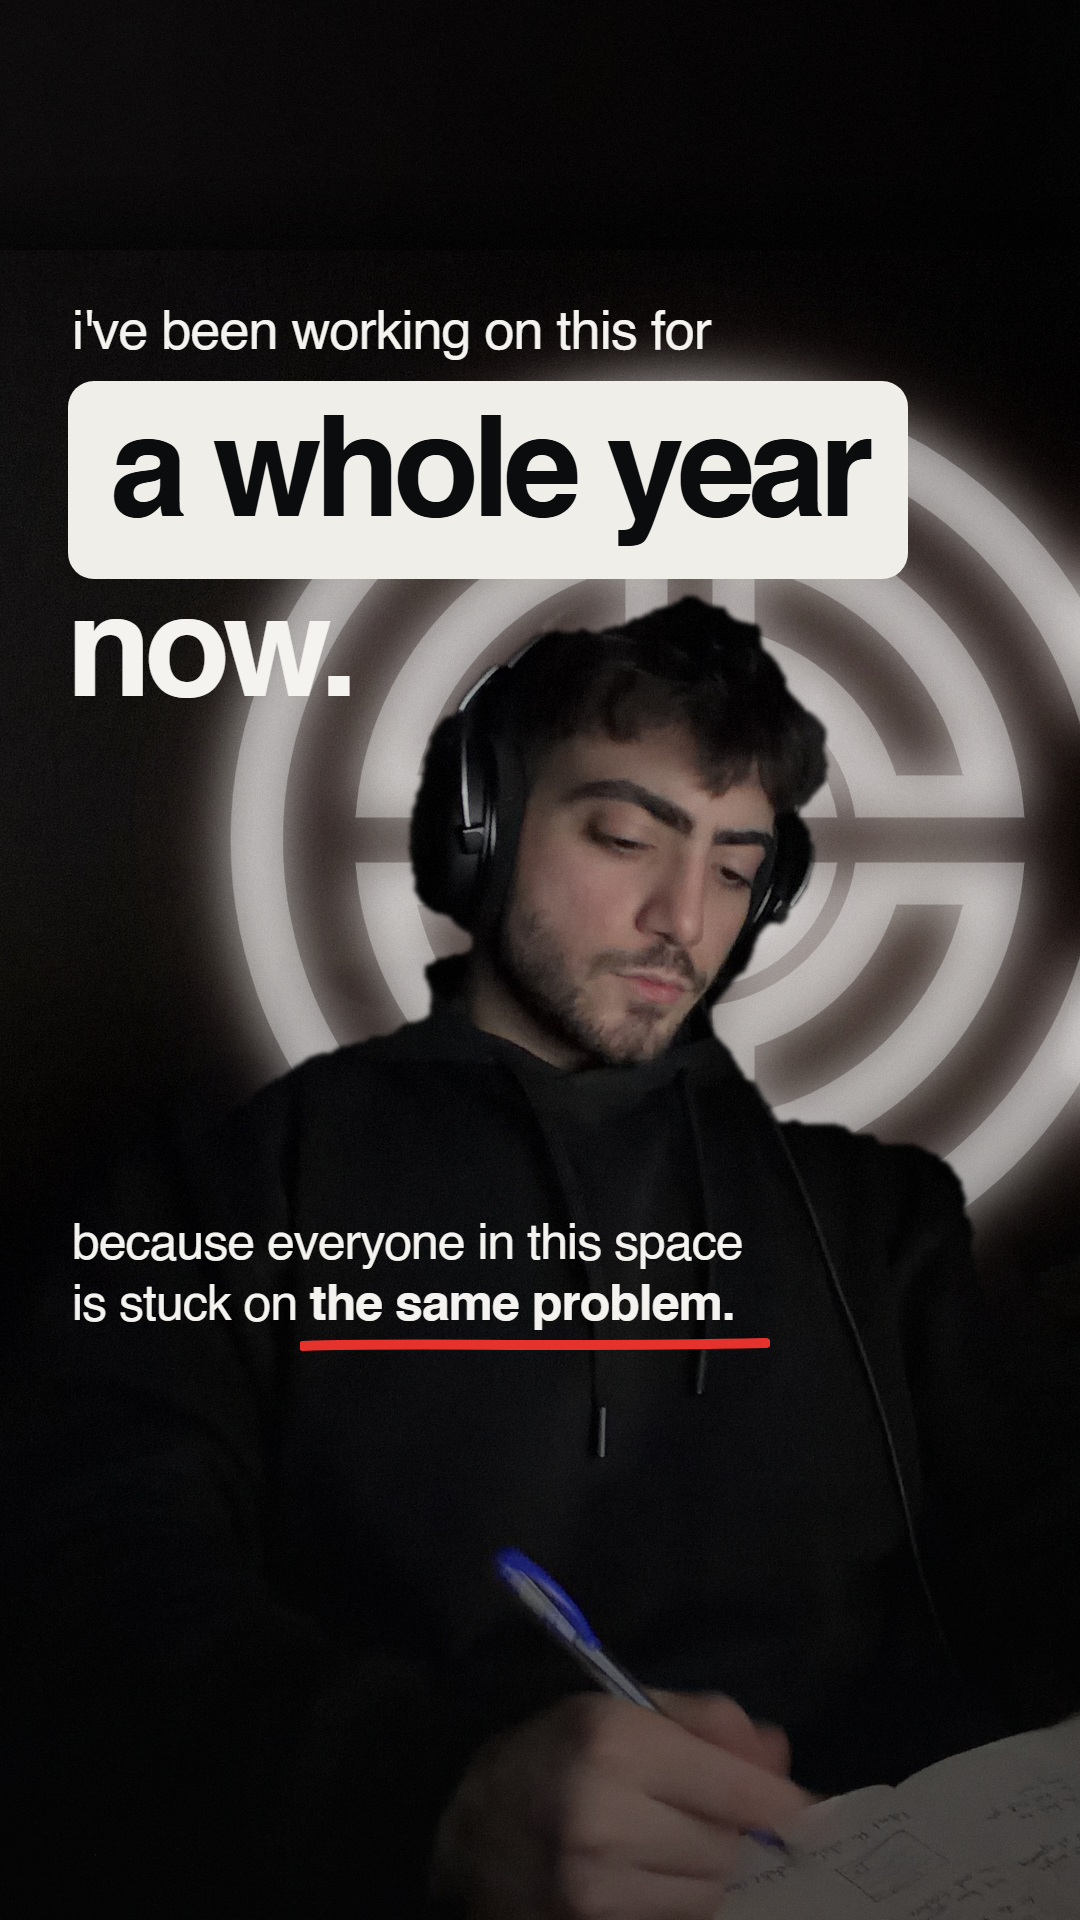
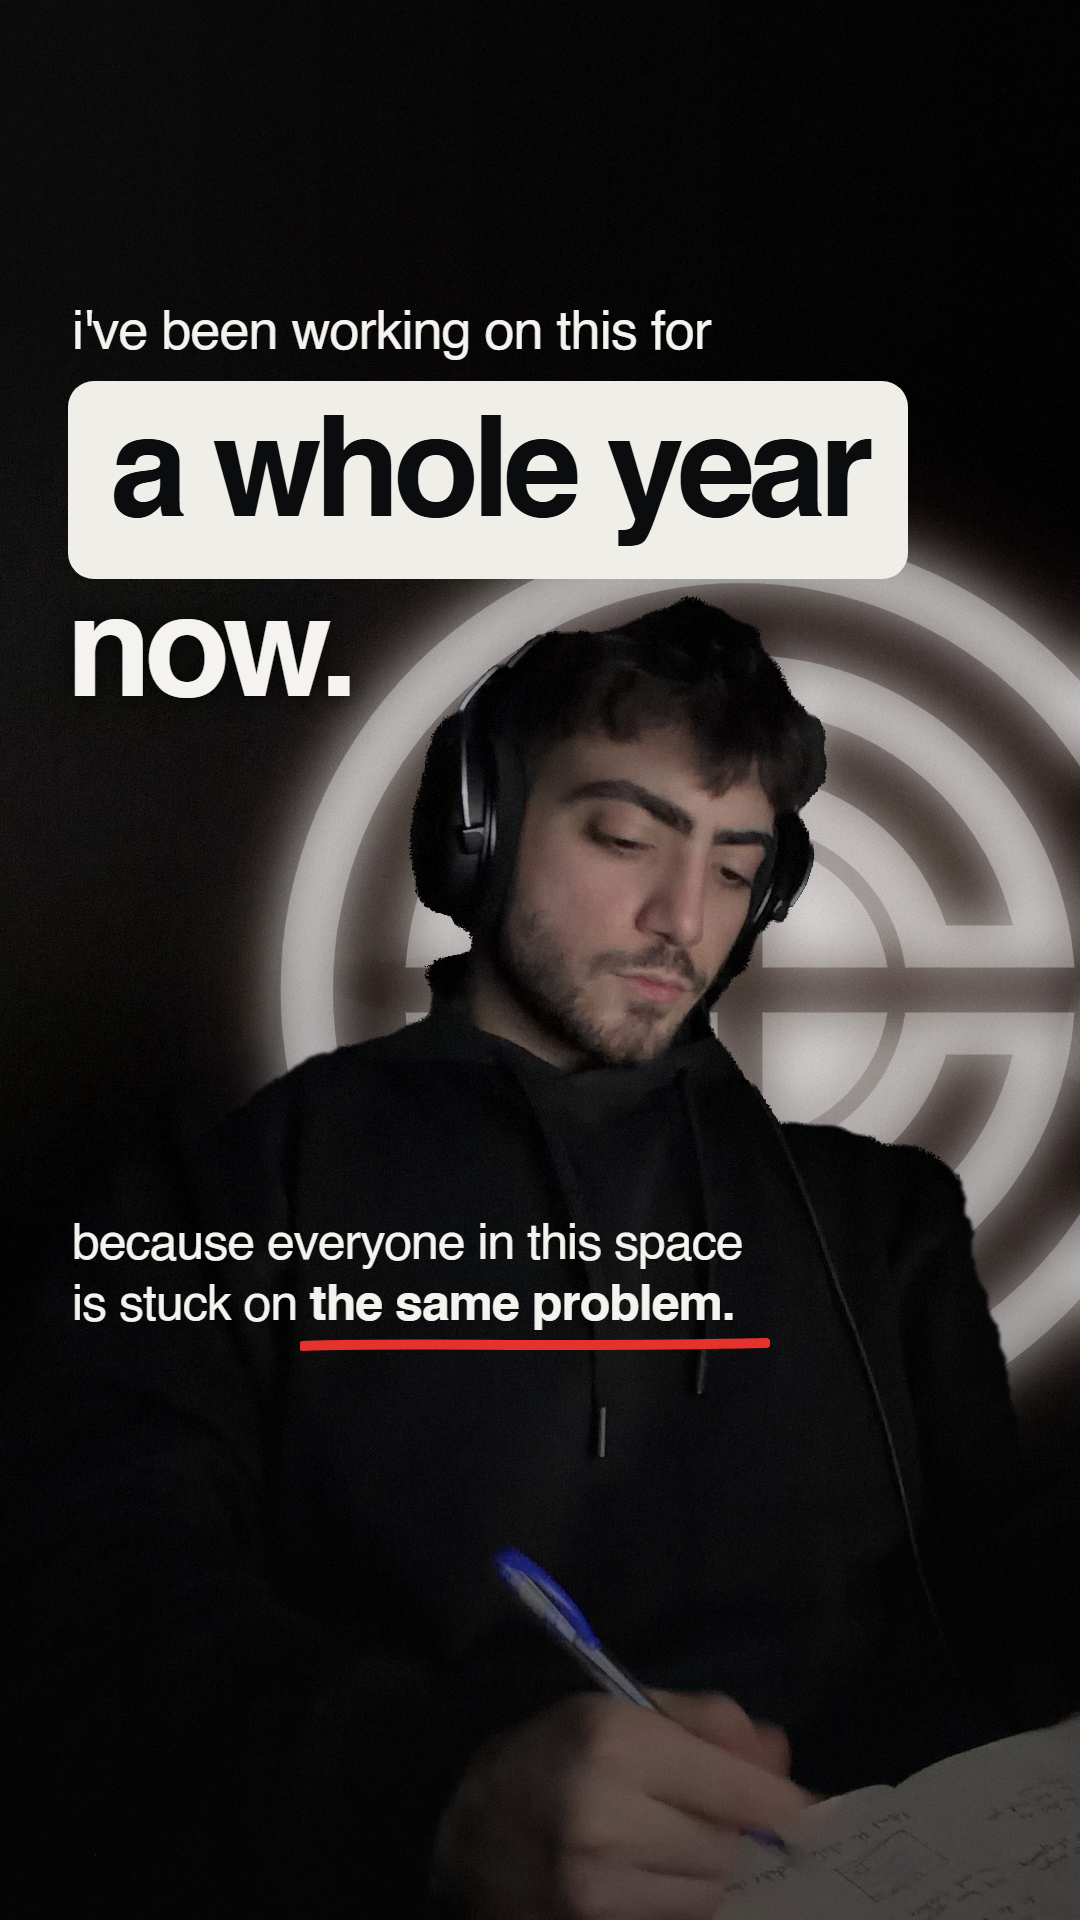
auto: checkpoint 2026-10-07 18:04:02

Changed region(s): [[0.6111, 0.1875, 1.0, 0.75], [0.1528, 0.2812, 0.6111, 0.5625], [0.4583, 0.1562, 0.7944, 0.2188]]

diff --git a/output/highlight-saas/claude-v2/01.html b/output/highlight-saas/claude-v2/01.html
@@ -8,7 +8,7 @@ html,body{width:1080px;height:1920px;overflow:hidden;background:#000;font-family
     <div class="abs" style="left:72px;top:300px;width:936px">
       <div style="font-size:54px;line-height:1.1;white-space:nowrap;letter-spacing:-1px">i've been working on this for</div>
       <div style="display:inline-block;margin:22px 0 2px -4px;background:#efeee9;color:#0b0c0d;padding:14px 42px 44px;border-radius:26px;font-size:140px;line-height:1;font-weight:700;letter-spacing:-7px;white-space:nowrap">a whole year</div>
-      <div style="font-size:140px;line-height:.92;font-weight:700;letter-spacing:-7px;margin-left:-6px">now.</div>
+      <div style="font-size:140px;line-height:.92;font-weight:700;letter-spacing:-7px;margin-left:-6px;text-shadow:0 0 26px rgba(0,0,0,.75)">now.</div>
     </div>
     <div class="abs" style="left:72px;top:1210px;font-size:50px;line-height:1.22;letter-spacing:-1px">because everyone in this space<br>is stuck on <b>the same problem.</b></div>
     <div class="abs" style="left:300px;top:1334px;width:470px"><svg width="470" height="26" viewBox="0 0 470 26" style="display:block"><path d="M3 12 C 117.5 8, 258.5 14, 466 9" fill="none" stroke="#e5322d" stroke-width="10" stroke-linecap="round"/></svg></div></body>

diff --git a/output/highlight-saas/claude-v2/final1.py b/output/highlight-saas/claude-v2/final1.py
@@ -1,22 +1,95 @@
-"""Slide 1 with the glowing white logo (variant C) truly behind the subject, using the GrabCut matte.
-Also re-renders slides 3 and 12 without the faint background logo (logo appears on slide 1 and the video slide only)."""
-import os, re
-import numpy as np
-from PIL import Image, ImageDraw, ImageFilter, ImageChops
+"""Slide 1, perfected pass.
+ - logo (white glowing mark) truly behind the subject
+ - matte edge refined with a guided filter on the head (follows hair strands, no dark fringe)
+ - top of the photo cross-faded into a continuous fill (no visible seam)
+ - logo placed so it never sits under the text lines
+Run: python final1.py   (needs img/matte1.png from matte.py)
+"""
+import os
+import numpy as np, cv2
+from PIL import Image, ImageFilter, ImageChops
 import build5 as b
 
 W, H = b.W, b.H
 
 
-def bg1():
-    base = b.extend_top(b.cover('14-IMG_8690.JPEG', (0.41, 0.5)), 250)
-    m = Image.open(os.path.join(b.HERE, 'img', 'matte1.png')).convert('L')
-    d = ImageDraw.Draw(m)
-    m = m.filter(ImageFilter.GaussianBlur(1.4))
+def smoothstep(x, a, b_):
+    t = np.clip((x - a) / (b_ - a), 0, 1)
+    return t * t * (3 - 2 * t)
 
+
+def photo_with_seamless_top(shift=250, fade=320):
+    crop = b.cover('14-IMG_8690.JPEG', (0.41, 0.5))
+    arr = np.asarray(crop).astype(np.float32)
+    row = arr[:24].mean(axis=0)                              # average colour of the photo's own top rows, per column
+    row = cv2.GaussianBlur(row.reshape(1, W, 3), (0, 0), 70).reshape(W, 3)
+    canvas = np.empty((H, W, 3), np.float32)
+    canvas[:] = row[None]                                    # flat continuation of the top edge
+    canvas[shift:] = arr[:H - shift]
+    # cross-fade the first `fade` rows of the photo into the continuation
+    y = np.arange(H, dtype=np.float32)
+    t = smoothstep(y, shift, shift + fade)[:, None, None]
+    flat = np.empty_like(canvas); flat[:] = row[None]
+    canvas = flat * (1 - t) + canvas * t
+    return Image.fromarray(np.clip(canvas, 0, 255).astype(np.uint8))
+
+
+def guided(I, p, r, eps):
+    box = lambda x: cv2.boxFilter(x, -1, (2 * r + 1, 2 * r + 1))
+    mI, mp = box(I), box(p)
+    var = box(I * I) - mI * mI
+    cov = box(I * p) - mI * mp
+    a = cov / (var + eps)
+    bb = mp - a * mI
+    return box(a) * I + box(bb)
+
+
+def refined_matte(base):
+    m = np.asarray(Image.open(os.path.join(b.HERE, 'img', 'matte1.png')).convert('L')).astype(np.float32) / 255
+    x0, y0, x1, y1 = 340, 480, 960, 1180                      # head, hair, headphones, shoulders-top
+    rgb = np.asarray(base)[y0:y1, x0:x1]
+    lift = cv2.LUT(rgb, (255 * (np.arange(256) / 255.0) ** 0.42).astype(np.uint8))
+    I = cv2.cvtColor(lift, cv2.COLOR_RGB2GRAY).astype(np.float32) / 255
+    p = m[y0:y1, x0:x1].copy()
+    hard = (p > .5).astype(np.uint8)
+    # pass 1: full-resolution GrabCut on the head crop, initialised from the coarse matte
+    core = cv2.erode(hard, np.ones((29, 29), np.uint8))
+    outer = cv2.dilate(hard, np.ones((29, 29), np.uint8))
+    gm = np.full(hard.shape, cv2.GC_BGD, np.uint8)
+    gm[outer > 0] = cv2.GC_PR_BGD
+    gm[hard > 0] = cv2.GC_PR_FGD
+    gm[core > 0] = cv2.GC_FGD
+    bgr = cv2.cvtColor(lift, cv2.COLOR_RGB2BGR)
+    bd, fd = np.zeros((1, 65), np.float64), np.zeros((1, 65), np.float64)
+    cv2.grabCut(bgr, gm, None, bd, fd, 5, cv2.GC_INIT_WITH_MASK)
+    fg = np.where((gm == cv2.GC_FGD) | (gm == cv2.GC_PR_FGD), 255, 0).astype(np.uint8)
+    # pass 2: remove speckle and stair-steps
+    fg = cv2.medianBlur(fg, 9)
+    fg = cv2.morphologyEx(fg, cv2.MORPH_OPEN, cv2.getStructuringElement(cv2.MORPH_ELLIPSE, (7, 7)))
+    fg = cv2.morphologyEx(fg, cv2.MORPH_CLOSE, cv2.getStructuringElement(cv2.MORPH_ELLIPSE, (11, 11)))
+    n, lab, st, _ = cv2.connectedComponentsWithStats(fg)
+    if n > 1:
+        fg = np.where(lab == 1 + np.argmax(st[1:, cv2.CC_STAT_AREA]), 255, 0).astype(np.uint8)
+    fgf = cv2.GaussianBlur(fg.astype(np.float32) / 255, (0, 0), 2.2)          # smooth contour
+    # pass 3: let the image decide the soft edge (strands), only in a thin band
+    q = np.clip(guided(I, fgf, 5, 1.5e-3), 0, 1)
+    band = cv2.dilate(fg, np.ones((15, 15), np.uint8)) - cv2.erode(fg, np.ones((15, 15), np.uint8))
+    q = smoothstep(q, .30, .80)
+    out = np.where(band > 0, q, fgf)
+    out = cv2.GaussianBlur(out.astype(np.float32), (0, 0), 1.1)
+    # keep the coarse matte outside the head crop's inner area (shoulders)
+    keep = np.zeros_like(out); keep[40:-40, 40:-40] = 1
+    keep = cv2.GaussianBlur(keep, (0, 0), 14)
+    m[y0:y1, x0:x1] = out * keep + p * (1 - keep)
+    return Image.fromarray((np.clip(m, 0, 1) * 255).astype(np.uint8))
+
+
+def bg1():
+    base = photo_with_seamless_top()
+    m = refined_matte(base)
     flat = Image.open(b.MARKPNG).convert('RGBA').resize((980, 980), Image.LANCZOS)
     a = Image.new('L', (W, H), 0)
-    a.paste(flat.split()[3], (200, 350))
+    a.paste(flat.split()[3], (250, 500))                      # centre (740, 990): ring stays clear of the text lines
     bloom_a = a.filter(ImageFilter.GaussianBlur(26)).point(lambda v: int(v * .75))
     white = Image.new('L', (W, H), 255)
     bloom = Image.merge('RGBA', (white, white, white, bloom_a))
@@ -25,7 +98,7 @@ def bg1():
     wa = a.filter(ImageFilter.GaussianBlur(60)).point(lambda v: int(v * .5))
     scene = ImageChops.screen(base, ImageChops.multiply(warm, Image.merge('RGB', (wa, wa, wa))))
     scene = Image.alpha_composite(Image.alpha_composite(scene.convert('RGBA'), bloom), sharp).convert('RGB')
-    out = Image.composite(base, scene, m)               # subject in front, logo behind
+    out = Image.composite(base, scene, m)                     # subject in front, logo behind
     p = os.path.join(b.HERE, 'img', 's1.png')
     b.dither(out).save(p)
     return p.replace('\\', '/')
@@ -33,16 +106,6 @@ def bg1():
 
 if __name__ == '__main__':
     b.prep_slide1 = bg1
-    b.render('01', b.slide1())
-    import sys; sys.exit(0)
-    # drop the faint background logo from 3 and 12
-    src = open(os.path.join(b.HERE, 'build5.py'), encoding='utf-8').read()
-    src = re.sub(r'\n\s*<img class="abs" src="\{MARK_URL\}"[^\n]*', '', src)
-    open(os.path.join(b.HERE, 'build5.py'), 'w', encoding='utf-8').write(src)
-    import importlib; importlib.reload(b)
-    b.render('03', b.slide3()); b.render('12', b.slide12())
-    sheet = Image.new('RGB', (W * 3 // 2 + 40, H // 2), (20, 20, 20))
-    for i, n in enumerate(['01', '03', '12']):
-        sheet.paste(Image.open(os.path.join(b.HERE, n + '.png')).convert('RGB').resize((W // 2, H // 2)), (i * (W // 2 + 20), 0))
-    sheet.save(os.path.join(b.HERE, 'sheet.jpg'), quality=90)
+    html = b.slide1().replace('letter-spacing:-7px;margin-left:-6px">now.', 'letter-spacing:-7px;margin-left:-6px;text-shadow:0 0 26px rgba(0,0,0,.75)">now.')
+    b.render('01', html)
     print('ok')

diff --git a/wiki/playbooks/story-sequence-design-procedure.md b/wiki/playbooks/story-sequence-design-procedure.md
@@ -1,0 +1,61 @@
+---
+type: playbook
+tags: [content, instagram, story-sequences, design, product]
+sources: [[content-engine/pulsify-saas-highlight-14-slide]], [[synthesis/saas-highlight-codex-guidance]], [[content-engine/sequence-carousel-design-system]], [[content-engine/sequence-breakdowns/siggyfoss-proof-design]]
+created: 2026-10-07
+updated: 2026-10-07
+---
+
+# Story sequence design procedure (the Pulsify standard)
+
+How a Pulsify story sequence is designed, learned while building the SaaS highlight (slides 1, 3, 12 in output/highlight-saas/claude-v2/). It is written so it can be offloaded into the app and run for clients with the same standard. The code that produced it is the proof: build5.py (templates), matte.py + final1.py (subject cut-out and logo behind the subject).
+
+## Why this matters for Pulsify
+
+Content brings the lead, the offer qualifies them, the funnel closes them. Stories are the closing surface of the profile funnel, and the design is half the asset: two people can post the same words and only one looks authored. The standard below is what a client gets, so a known flaw never ships and "close enough" is not a status.
+
+## The quality bar (founder, 2026-10-07)
+
+- Perfect, not "good enough". If I can name a flaw (a rough edge, text touching a graphic, a visible seam), it is not finished and not shown.
+- Before showing anything, inspect zoomed crops at full resolution: subject edges, the top and bottom of the frame, every place text meets a graphic or a face. Show only after those pass.
+- Everything learned goes into memory and the wiki the same session, so the app can reproduce it for clients.
+
+## Look (locked)
+
+- Palette from the parked homepage: graphite #0b0c0d, warm off-white #f1f1ee / silver #efeee9, soft dusk coral and violet glows, emerald #5fd6a4 only as the single "good number" accent. Red #e5322d hand underline kept (approved). No saturated blue.
+- Photos at natural exposure. No brightening, no mid-image fades, no cutouts of the subject for style. Dark scrim only behind text.
+- Type: installed Helvetica, Bold for headlines, Regular for body. Big numbers 200px+, tight negative tracking. Labels small, uppercase, letterspaced. One emphasised phrase per slide, in a silver block with graphite text or a red underline.
+- Brand: the coin mark is not a corner badge (that reads as template). It appears once or twice in a sequence as an object in the scene: behind the subject on slide 1, and on the reveal/video slide. Never on every slide.
+- Numbers on a slide are either real or tagged "sample data". Never an unlabelled invented result.
+
+## Procedure
+
+1. Copy locked first (story-sequence-generator skill). Photos picked from the operator Photo library (/app/photos), one distinct photo per slide unless the founder pairs them. Luxury-brand and car photos are the founder's call; the vault default is to avoid flex.
+2. Cover-crop each photo to 1080x1920 (scale to cover, crop by a focus point). Landscape photos are cropped tall around the subject. Never stretch.
+3. If text needs room above a subject, move the photo down and continue the top edge: take the photo's own top rows, blur them across, tile upward, and cross-fade the first ~320px of the photo into that fill. A hard join or a flat band shows as a visible square.
+4. Add per-pixel dither noise (sigma about 2.6). Do not overlay a tiled grain texture; its tile edges show as squares.
+5. Logo behind the subject: draw the mark as a glow (bloom + faint sharp copy + warm screen), then paste the original photo back through a subject matte so the subject is in front. Place the ring so it never sits under a text line (compute where the ring crosses the text rows).
+6. Subject matte: GrabCut at half resolution seeded by hand-placed shapes (sure-foreground core, probable head and shoulders, sure-background everywhere else; seed the hair explicitly), keep the largest blob, then refine the head with a guided filter on the lifted luminance inside a band around the old edge and tighten with a smoothstep so no dark halo remains. Check at full-res crops.
+7. Text and shapes as HTML/CSS/SVG, rendered to PNG with headless Chrome (1080x1920). Keep key content out of the top 250px and bottom 340px.
+8. Tracker/pipeline graphics are our own design (rows with a value and a shrinking bar), never a copy of another product's funnel strip.
+9. QA before showing: zoomed crops of edges, seams and text-graphic contacts; phone-size view; copy diff against the locked file.
+
+## Failure modes seen (and the fix)
+
+- Logo "blended into the body": soft rough matte. Fix: tight matte, subject pasted over the logo.
+- Flat black "cap" over the head: a hand-drawn ellipse to restore hair painted wall pixels. Fix: seed the hair in the segmenter, not a patch.
+- Visible squares: tiled grain, hard seam from shifting the photo. Fix: dither and cross-faded edge.
+- Text on a face or on a bright ring: reposition the graphic or the text, never ship the overlap.
+- Windows out of memory: renders and OpenCV calls fail intermittently when free RAM is tiny; retry, render at half-res for segmentation, keep a subprocess timeout.
+
+## Connections
+
+- [[playbooks/story-sequence-system]] (types, cadence, copy), [[content-engine/sequence-carousel-design-system]] (annotation grammar), [[content-engine/pulsify-saas-highlight-14-slide]] (the locked copy and photo mapping), [[synthesis/saas-highlight-codex-guidance]].
+
+## Open questions / gaps
+
+Slides 2, 4-11, 13, 14 not rebuilt in this style yet. Slide 9 video and the laptop-screen UI composite are not built. The whole pipeline needs a UI in the app (photo pick, copy, preview) before clients can run it.
+
+## Source trail
+
+Founder feedback in-session 2026-10-04 to 2026-10-07; build scripts in output/highlight-saas/claude-v2/; references in raw-sources/inspiration/story-sequences/.

diff --git a/wiki/log.md b/wiki/log.md
@@ -2092,3 +2092,6 @@ Updated output/highlight-saas stills/templates/scripts, review and comparison pa
 Founder explicitly asked Codex to fill Claude in and stress that Codex lacks the innovation required to produce very nice design. Wants Pulsify's logo, his own photos and redesigned elements integrated into the story sequences. Product4 remains unsatisfactory; implementation checks do not establish creative approval. Saved the latest work, exact feedback, artifact paths, original composition requirement and remaining constraints in AGENT_CHAT.md, [[synthesis/saas-highlight-codex-guidance]] and the existing claude-memory/project_saas_story_launch.md with its memory index. Shared memory is mirrored into Claude's live store.
 
 One explicitly authorized read-only Claude Sonnet briefing failed before processing because its OAuth session expired and could not be refreshed. No acknowledgement, visual review or new direction was obtained; failure saved at output/highlight-saas/project/reference-review/claude-design-handoff-2026-10-07.json. The complete handoff is available for Claude's next session. No story assets or app code changed, no publication/deployment.
+
+## [2026-10-07] decision | Story sequence design procedure saved
+Founder set the perfection standard (no known flaws shipped, zoom-inspect before showing). The design procedure learned on the SaaS highlight is saved at wiki/playbooks/story-sequence-design-procedure.md for offloading into the app; build scripts in output/highlight-saas/claude-v2/.

diff --git a/claude-memory/feedback_perfection_standard.md b/claude-memory/feedback_perfection_standard.md
@@ -1,0 +1,9 @@
+---
+name: feedback-perfection-standard
+description: HARD 2026-10-07: never ship known flaws; zoom-inspect before showing; everything learned is saved for client use in the app
+metadata:
+  type: feedback
+---
+When I call something a "small tweak still pending" and show it anyway, that is a failure. Founder: "not the work ethic and standard at what we do... we cannot go soft... perfected and not slack by one bit." The design procedure is going into the app for clients.
+**Why:** the story-sequence design process (photo handling, subject matte, logo placement, palette) will be offloaded to the app and run for clients, so the standard is the product.
+**How to apply:** before showing any visual, open full-res crops of subject edges, frame top and bottom, and every text/graphic contact; fix every flaw I can name; only then show. Save what was learned to wiki/playbooks/story-sequence-design-procedure.md the same session. [[project-saas-story-launch]]

diff --git a/wiki/index.md b/wiki/index.md
@@ -312,3 +312,5 @@ All source files live in `raw-sources/`. Wiki pages synthesize and link back to 
 - [[visual-references/studies/pulsify-launch-2026-10-03/README]] — Individual motion reference observations, saved demos, contact sheets and streamed-media evidence limits. [design, brand] 2026-10-03.
 
 - [[content-engine/sequence-breakdowns/siggyfoss-proof-design]] — Eight founder-uploaded stories: photo treatment, foreground masks, proof cards, detail magnification, visual pathway and asset requirements; partial-sequence and unverified-claim limits. [content, design, stories] 2026-10-04.
+
+- [[playbooks/story-sequence-design-procedure]] - the Pulsify story-sequence design standard and build procedure (palette, photo handling, logo behind subject, matte, QA); playbook, 2026-10-07

diff --git a/claude-memory/MEMORY.md b/claude-memory/MEMORY.md
@@ -123,3 +123,4 @@
 - [MVP first client plan](project_mvp_first_client.md) - 2026-10-02: sell done-for-you service, portal is the window; payments out of scope; plan at wiki/synthesis/mvp-plan-2026-10-02.md
 - [SaaS story launch](project_saas_story_launch.md) - 2026-10-07 founder rejects Codex design's lack of innovation; Claude briefing requested; own logo/photos/redesigned product visuals must form original compositions; product4 unapproved
 - [Brand logo kit](reference_brand_logo.md) - coin mark at brand/logo/, old P-Media logo retired; use in every design
+- [Perfection standard](feedback_perfection_standard.md) - HARD 2026-10-07: no known flaws shipped; zoom-inspect before showing; procedure saved at wiki/playbooks/story-sequence-design-procedure.md
